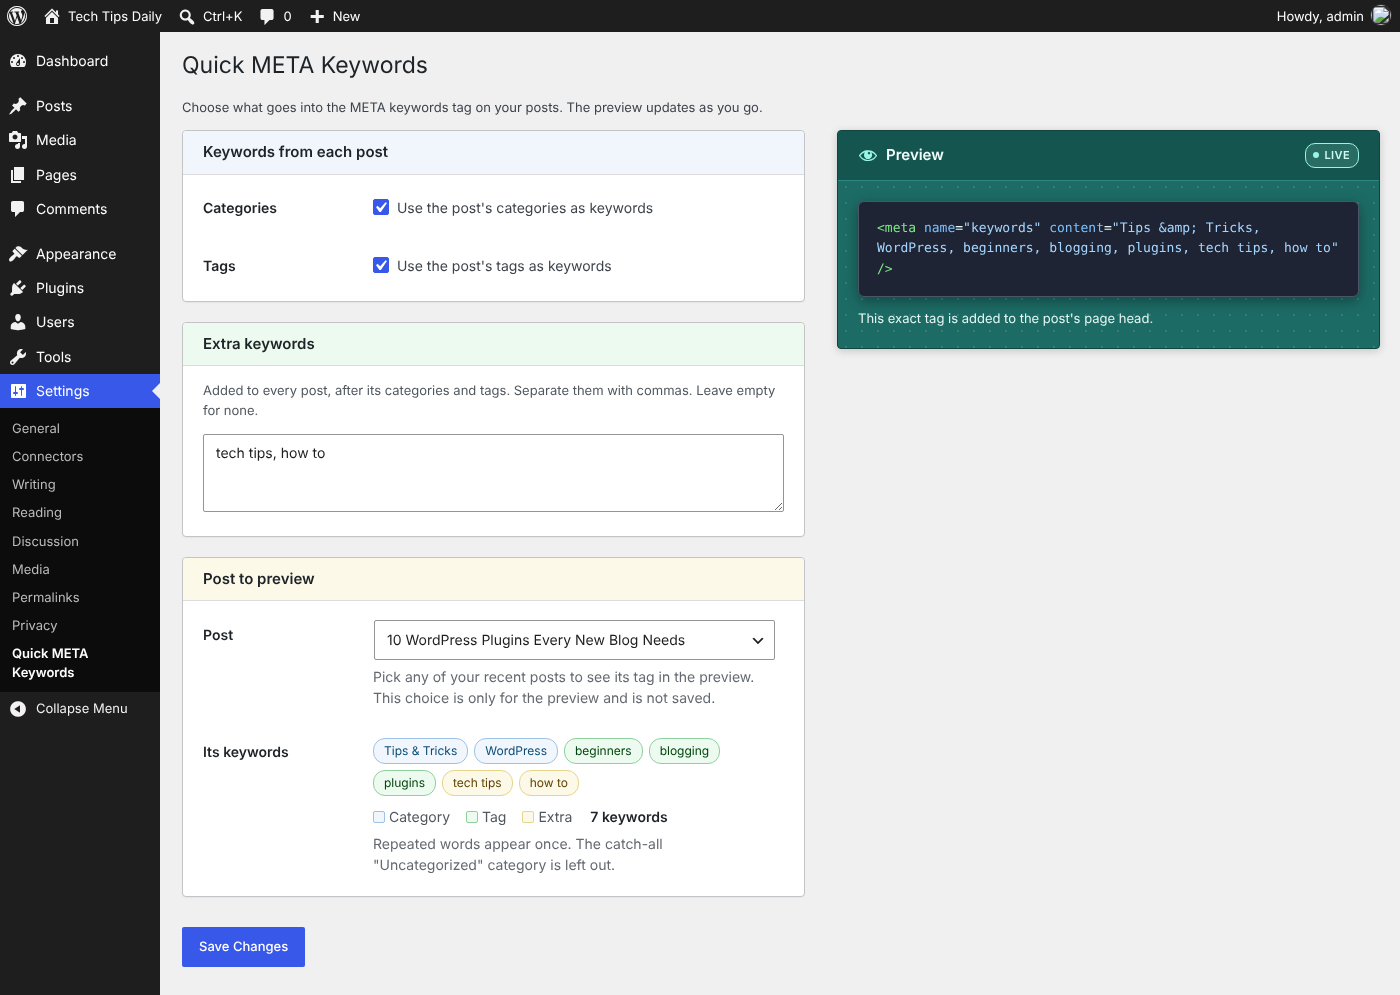
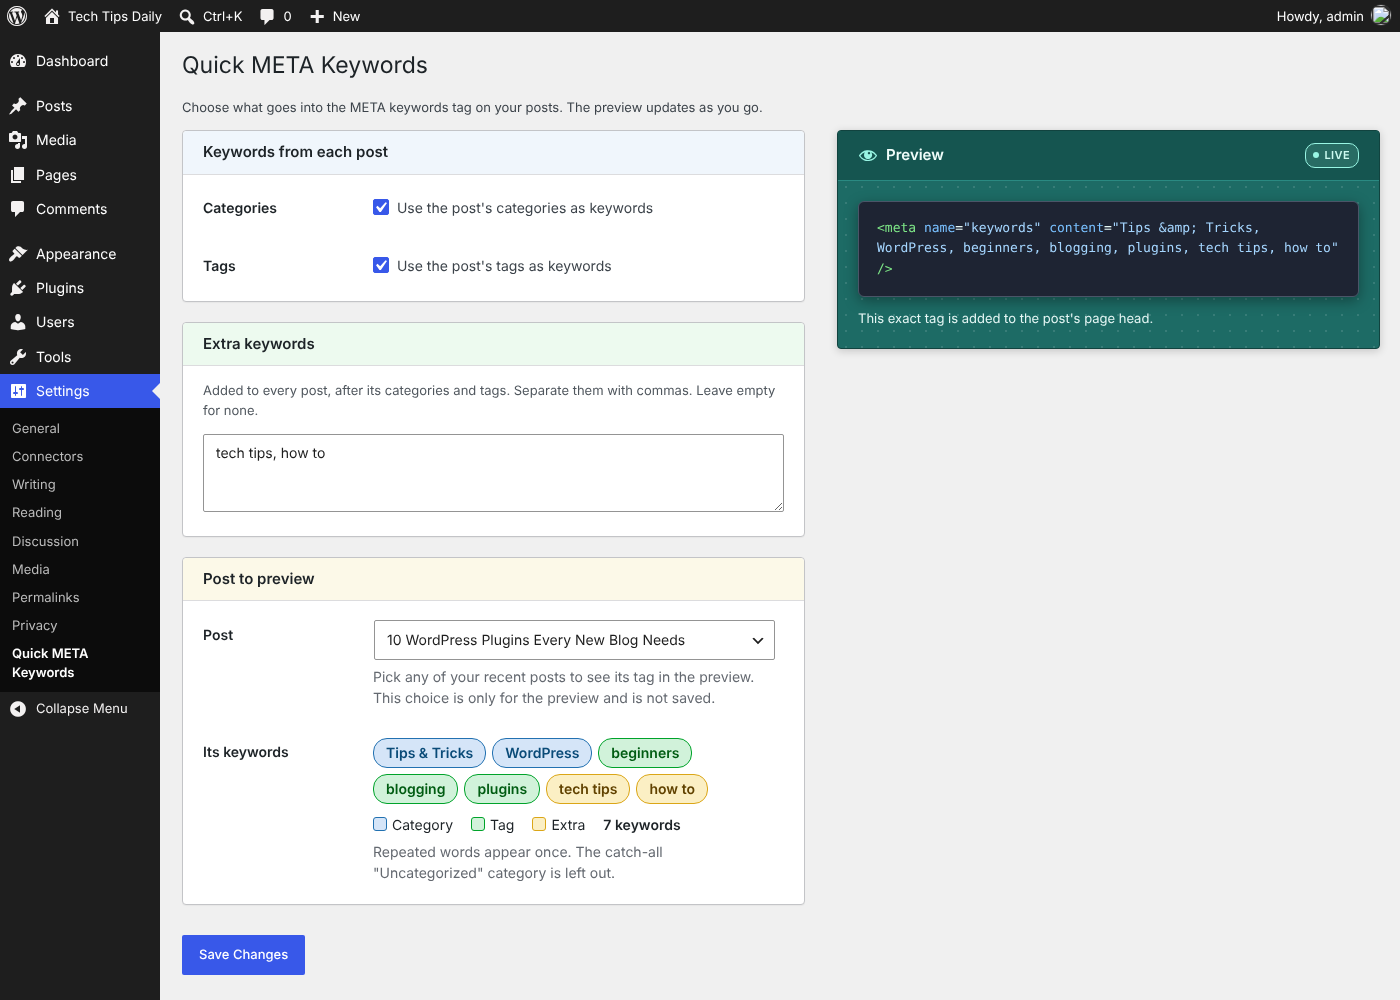
Quick META Keywords settings page: bolder, easier-to-read keyword chips
Larger bold text, stronger fills and borders for category, tag and
extra keywords, and a darker colour key. New screenshot.

diff --git a/plugins/quick-meta-keywords/metakeywords.php b/plugins/quick-meta-keywords/metakeywords.php
@@ -290,17 +290,17 @@ function quick_meta_keywords_admin_assets() {
 		'@media (max-width:1279px){.qmk-wrap{gap:20px}.qmk-side{order:-1;position:static}}' .
 		'.qmk-note{margin-top:12px!important}' .
 		'#qmk-extra{width:100%}' .
-		'#qmk-post{width:100%;max-width:100%}.qmk-legend{margin:0;color:#50575e}' .
+		'#qmk-post{width:100%;max-width:100%}.qmk-legend{margin:0;color:#1d2327}' .
 		'.qmk-chips{display:flex;flex-wrap:wrap;gap:6px;margin:0 0 10px;padding:0;list-style:none}.qmk-chips:empty{display:none}' .
-		'.qmk-chips li{margin:0;padding:3px 10px;border-radius:12px;font-size:12px;line-height:18px;border:1px solid}' .
-		'.qmk-chips .qmk-cat{background:#f0f6fc;border-color:#9ec2e6;color:#0a4b78}' .
-		'.qmk-chips .qmk-tag{background:#edfaef;border-color:#8fd19e;color:#00450c}' .
-		'.qmk-chips .qmk-extra{background:#fcf9e8;border-color:#e6d58a;color:#614200}' .
+		'.qmk-chips li{margin:0;padding:4px 12px;border-radius:14px;font-size:14px;font-weight:600;line-height:20px;border:1.5px solid}' .
+		'.qmk-chips .qmk-cat{background:#d5e5f8;border-color:#2271b1;color:#0a4b78}' .
+		'.qmk-chips .qmk-tag{background:#d1f2da;border-color:#00a32a;color:#005c12}' .
+		'.qmk-chips .qmk-extra{background:#fbefc4;border-color:#dba617;color:#614200}' .
 		'.qmk-code{margin:20px 0 0;padding:16px 18px;background:#1e2433;color:#e6edf3;border:1px solid #4a5568;border-radius:6px;box-shadow:0 4px 14px rgba(0,0,0,.35);font:13px/1.6 Consolas,Monaco,monospace;white-space:pre-wrap;word-break:break-word}' .
 		'.qmk-code .t{color:#7ee787}.qmk-code .a{color:#79c0ff}.qmk-code .s{color:#a5d6ff}' .
 		'.qmk-count{margin-left:14px;color:#1d2327;font-weight:600}.qmk-empty{color:#f2cc60}' .
-		'.qmk-legend .qmk-key:first-child{margin-left:0}.qmk-key{display:inline-block;width:10px;height:10px;border-radius:2px;margin:0 4px 0 12px;vertical-align:-1px;border:1px solid}' .
-		'.qmk-key.qmk-cat{background:#f0f6fc;border-color:#9ec2e6}.qmk-key.qmk-tag{background:#edfaef;border-color:#8fd19e}.qmk-key.qmk-extra{background:#fcf9e8;border-color:#e6d58a}'
+		'.qmk-legend .qmk-key:first-child{margin-left:0}.qmk-key{display:inline-block;width:12px;height:12px;border-radius:3px;margin:0 5px 0 14px;vertical-align:-1px;border:1.5px solid}' .
+		'.qmk-key.qmk-cat{background:#d5e5f8;border-color:#2271b1}.qmk-key.qmk-tag{background:#d1f2da;border-color:#00a32a}.qmk-key.qmk-extra{background:#fbefc4;border-color:#dba617}'
 	);
 
 	$script = <<<'JS'
